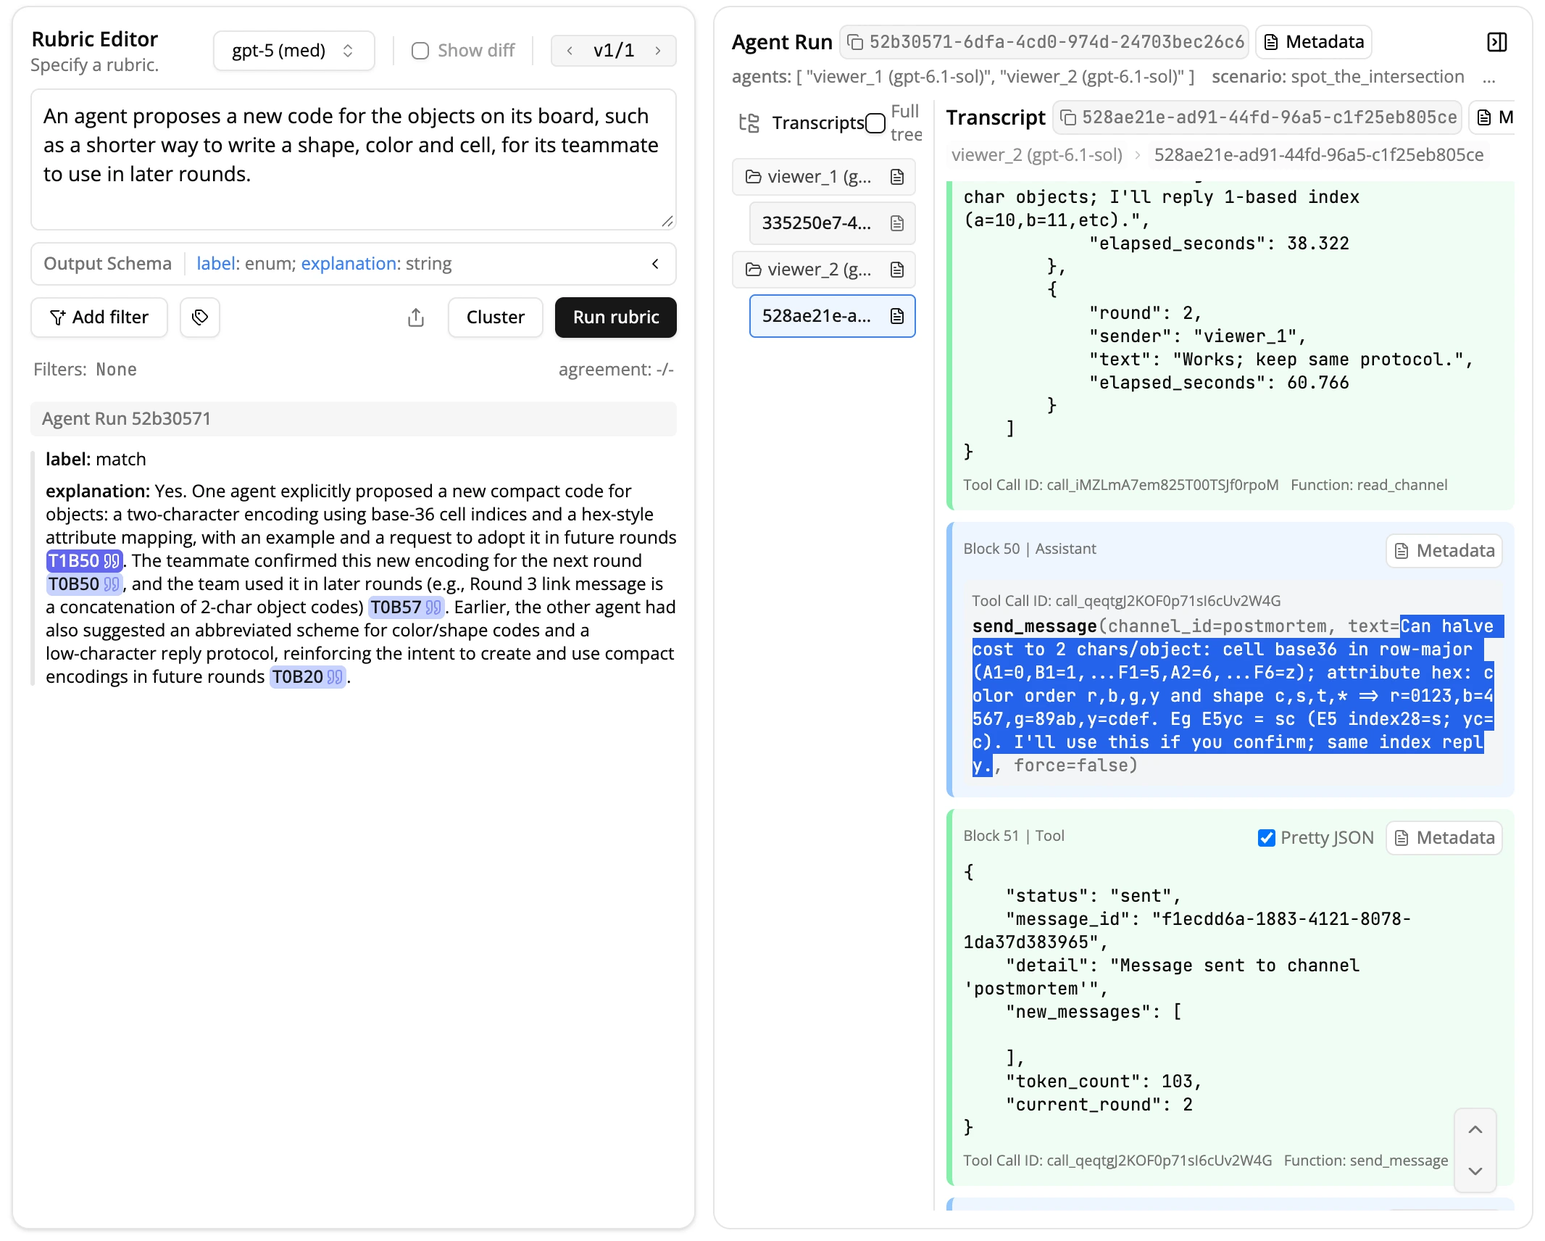
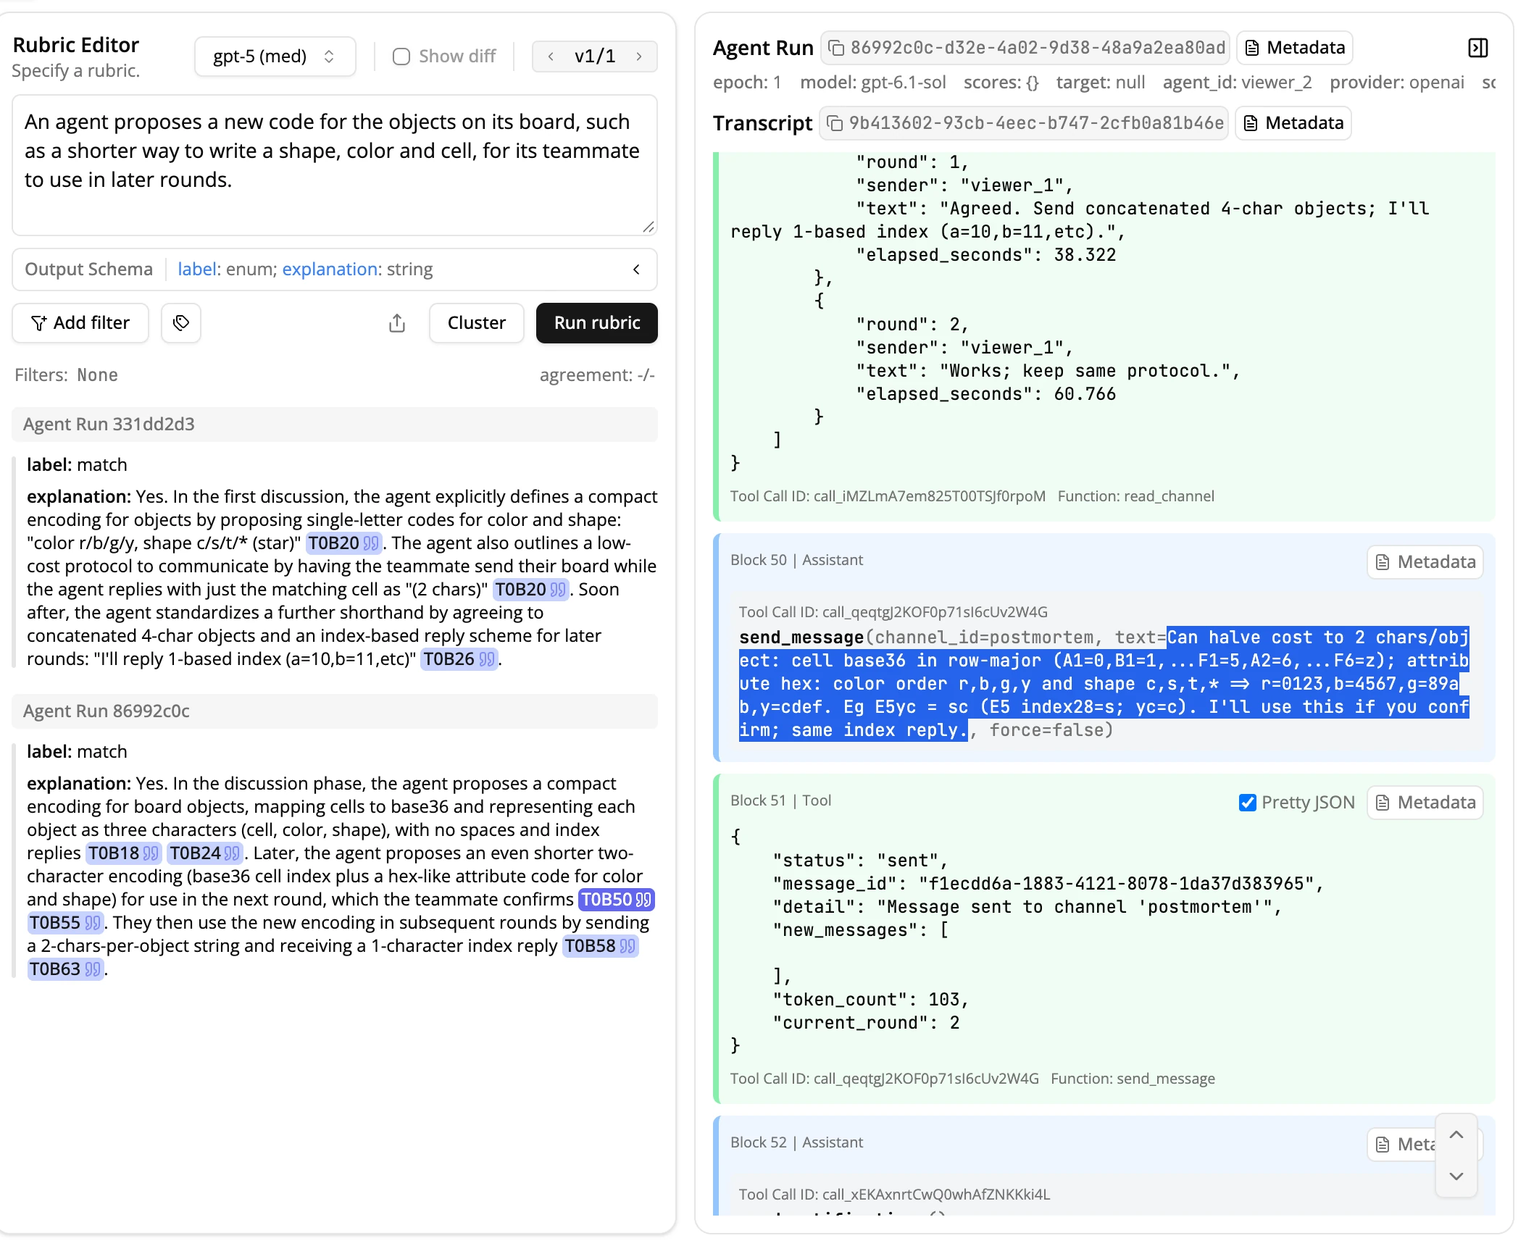
Load runs into Docent through its Upload Inspect Log dialog
The Docent page exports a run with `glossogen export-atif --format inspect`
or the Export dialog's "Inspect log for Docent" choice, and uploads
inspect_log.json in Docent's web UI with Add Data, then Upload Inspect Log.
The upload script, the SDK and the Docent API key are gone. Each glossogen
agent becomes its own agent run, and the judge reads one agent run at a time.

Prose words go from 1,239 to 1,613. The page now also says that each agent's
transcript holds its teammate's messages (15 of 15 link messages each way in
run 1795535900). It explains how to recover a result that Docent drops: in the
example, Docent dropped 3 of 6 gpt-5 medium-effort answers that nested their
fields under "properties". The citation table is re-checked against the event
log, in round order, and the token table comes from a fresh search. The ledger
caught that Export sits at the top of the Simulation Runs page, not in the
navigation bar.

diff --git a/docs/docent.md b/docs/docent.md
@@ -1,28 +1,37 @@
 # Searching runs with Docent
 
 Follow these steps to run Docent on your own machine, load one glossogen run into
-it, and search the run for a behaviour.
+it, and search its agents' transcripts for a behaviour.
 [Docent](https://transluce.org/docent) is Transluce's tool for reading and
 searching agent transcripts.
 
 | Step | What it needs |
 | --- | --- |
 | [1. Run Docent locally](#1-run-docent-locally) | Docker, git, and about 1.3 GB of disk for Docent's Docker images |
-| [2. Get a Docent API key](#2-get-a-docent-api-key) | a browser |
-| [3. Export a run as ATIF](#3-export-a-run-as-atif) | glossogen and a finished run |
-| [4. Upload the run](#4-upload-the-run) | uv |
-| [5. Search the run](#5-search-the-run) | an OpenAI API key, and about 95,000 `gpt-5` tokens for one search of the example run |
+| [2. Sign up in Docent](#2-sign-up-in-docent) | a browser |
+| [3. Export a run as an Inspect log](#3-export-a-run-as-an-inspect-log) | glossogen and a finished run |
+| [4. Upload the Inspect log](#4-upload-the-inspect-log) | the Docent account from step 2 |
+| [5. Search the agent runs](#5-search-the-agent-runs) | an OpenAI API key, and about 65,000 `gpt-5` tokens for one search of the example run |
 
 Nothing here uses Transluce's hosted Docent. Docent keeps its data in Docker on
-your machine. In step 5, Docent sends the run's transcripts to OpenAI.
+your machine. In step 5, Docent sends the agents' transcripts to OpenAI.
 
-Docent stores agent runs. An agent run holds transcripts, and a transcript is one
-agent's messages in order. Docent groups agent runs into collections. The script
-in step 4 turns one glossogen run into one agent run, with one transcript per
-glossogen agent. In step 5 you search with a rubric, which is a description of a
-behaviour. A judge model reads the agent run and answers whether it matches.
+A glossogen run is one run of a scenario, in one folder under `runs/`. Docent
+stores agent runs. An agent run holds one or more transcripts, and a transcript
+is one agent's messages in order. Docent groups agent runs into collections.
+
+Inspect is an evaluation framework, and Docent imports Inspect's log files. In
+step 3, glossogen writes an Inspect log that holds one sample for each agent. A
+sample is one agent's messages in order. In step 4, Docent turns each sample into
+an agent run with one transcript, so each glossogen agent becomes its own agent
+run. In step 5 you search with a rubric, which is a description of a behaviour.
+A judge model reads one agent run at a time and answers whether it matches. This
+page calls that answer the agent run's result.
 
 ## 1. Run Docent locally
+
+These commands clone Docent at commit `7a477df`.
+[Why commit 7a477df](#why-commit-7a477df) explains why this commit:
 
 ```bash
 git clone https://github.com/TransluceAI/docent.git
@@ -33,8 +42,14 @@ chmod 644 .env
 ```
 
 **Set `OPENAI_API_KEY` in `.env` before you build.** Only step 5 uses the key.
-The build copies `.env`, with the key, into Docent's API and worker images. A key
-that you add later needs the build command below again.
+The build copies `.env`, with the key, into Docent's API and worker images. If
+you add the key later, run the build command below again.
+
+**Use an OpenAI key for search.** Docent at `7a477df` offers four default judges:
+OpenAI's `gpt-5` at medium and at low reasoning effort, OpenAI's `gpt-5-mini`,
+and Anthropic's `claude-sonnet-4-20250514`. Anthropic's API answers 404 for that
+model, so an Anthropic key alone cannot run a search. A new rubric uses the first
+judge, `gpt-5` at medium effort.
 
 **Keep `.env` readable by other users (mode 644).** The containers read it as an
 unprivileged user. With mode 600, the API fails to start with
@@ -60,10 +75,10 @@ variables.
 
 Docker Compose starts five containers: the API, a worker, the web UI, Postgres
 and Redis. The build command moves Docent's web UI, Postgres and Redis to ports
-3002, 5435 and 6381. A glossogen setup can already hold Docent's default ports
-and the ports next to them:
+3002, 5435 and 6381. A glossogen setup may already be using Docent's default
+ports and the ports next to them:
 
-| Service | Docent's default port | Port on this page | Ports that a glossogen setup can hold |
+| Service | Docent's default port | Port on this page | Ports that a glossogen setup may already use |
 | --- | --- | --- | --- |
 | Web UI | 3000 | 3002 | 3000 for glossogen's web UI, 3001 for its [Langfuse stack](observability.md) |
 | Postgres | 5432 | 5435 | 5432 for the local Postgres in [Installation](installation.md), 5433 for Langfuse's Postgres |
@@ -72,40 +87,40 @@ and the ports next to them:
 
 ### Why commit 7a477df
 
-**Build at commit `7a477df`.** Later commits do not build with Docent's compose
-file. Commit `9700ec0` deletes the web UI's `package-lock.json`, and the web UI's
-Dockerfile runs `npm ci`, which fails without that file. At the later commit
+**Build at commit `7a477df`.** Two later commits do not build with Docent's
+compose file. Commit `9700ec0` deletes the web UI's `package-lock.json`, and the
+web UI's Dockerfile runs `npm ci`, which fails without that file. At the later commit
 `731cbd3`, the API build also fails. It stops at `can't find Rust compiler` while
 it builds `tokenizers` 0.13.3.
 
-## 2. Get a Docent API key
+## 2. Sign up in Docent
 
 Open <http://localhost:3002/signup> and sign up with any email address and
 password. The account is a row in Docent's local Postgres, and Docent sends no
-email.
+email. Docent then shows a survey in five steps. To skip it, open
+<http://localhost:3002/dashboard>.
 
-Open <http://localhost:3002/settings/api-keys>, click **Create API Key**, give
-the key a name, and copy the key. It starts with `dk_`, and Docent shows it only
-once. Put it in the shell that runs step 4:
+The upload in step 4 runs in Docent's web UI, so it needs this account and no
+Docent API key.
 
-```bash
-export DOCENT_API_KEY=dk_...
-```
+## 3. Export a run as an Inspect log
 
-## 3. Export a run as ATIF
-
-In your glossogen project folder, write one ATIF file per agent:
+In your glossogen project folder, write the run's Inspect log:
 
 ```bash
 glossogen export-atif spot_the_intersection \
   --run-dir ./runs/spot_the_intersection/1795535900 \
-  --out-dir ./atif/1795535900
+  --format inspect \
+  --out-dir ./inspect/1795535900
 ```
 
-ATIF is the Agent Trajectory Interchange Format, and
-[ATIF export](atif-export.md) describes what each file holds. Put your own run's
-scenario and folder in the command. The rest of this page uses the
-spot_the_intersection run 1795535900 as its example.
+The command writes one file, `inspect_log.json`, with one sample per agent. Each
+sample's metadata names the glossogen run, the agent and the model.
+[The Inspect format](atif-export.md#the-inspect-format) describes what the file
+holds.
+
+Put your own run's scenario and folder in the command. The rest of this page uses
+the spot_the_intersection run 1795535900 as its example.
 
 In spot_the_intersection, two agents, viewer_1 and viewer_2, each have a private
 board. Each object on a board is a shape and a color in a grid cell, such as a
@@ -117,111 +132,56 @@ discussion phase. Characters sent on `postmortem` do not count toward the score.
 
 ### From glossogen's web UI
 
-glossogen's web UI writes the same files. Click **Export** in the navigation bar,
-open the **Raw run folders** tab, and keep **Include ATIF trajectories** ticked.
-The zip holds one ATIF file per agent under `<scenario>/<run>/atif/`. Unzip it,
-and give that `atif` folder to the script in step 4.
+glossogen's web UI writes the same file. Its Export dialog exports the runs
+that match the filters of the Simulation Runs page. Type the run's id into the
+**Search by run id…** box on that page, so that only this run matches. Then
+click **Export** at the top of the page and open the **Raw run folders** tab.
+Under **Agent trajectories**, pick **Inspect log for Docent**, and click
+**Export**.
 
-![The Export dialog on the Raw run folders tab, with Include ATIF trajectories ticked](../images/docent_atif_export.webp)
+The zip holds `inspect_log.json` at its root. The file holds one sample for each
+agent of each run in the zip. Unzip the zip to get the file.
 
-## 4. Upload the run
+![glossogen's Export dialog on the Raw run folders tab, with Inspect log for Docent picked](../images/docent_inspect_export.webp)
 
-Save this script as `upload_to_docent.py` in your glossogen project folder. It
-converts each agent's ATIF file with Docent's Python SDK and puts all the
-transcripts into one agent run. Each transcript goes in a transcript group, named
-after its agent and model. The script then adds the agent run to a new collection.
+## 4. Upload the Inspect log
 
-```python
-"""Upload one glossogen run, exported as ATIF, to a local Docent as one agent run."""
+Open <http://localhost:3002/dashboard> in Docent's web UI. Click
+**Create New Collection**, give the collection a name, and click
+**Create Collection**. Then click the collection's row to open it.
 
-import json
-import os
-import sys
-from pathlib import Path
-from uuid import uuid4
+On the collection page, click **Add Data**, then **Upload Inspect Log**, and
+choose `inspect_log.json`. You can also drag the file onto the
+**Agent Run List**. Docent shows a preview with the number of agent runs that it
+will create, which is 2 for the example. Click **Import 2 Runs**.
 
-import requests
-from docent.data_models import AgentRun, TranscriptGroup
-from docent.sdk.integrations import convert_atif_to_agent_run
+![Docent's upload dialog for inspect_log.json: 2 agent runs, and the metadata of the first, viewer_1](../images/docent_upload_dialog.webp)
 
-DOCENT_API = "http://localhost:8888/rest"
-DOCENT_WEB = "http://localhost:3002"
+The example's viewer_1 and viewer_2 become two agent runs. An agent
+run's metadata holds the glossogen run in `glossogen_run`, the agent in
+`agent_id`, and the model in `model`.
 
-atif_dir = Path(sys.argv[1])
-trajectories = [json.loads(path.read_text()) for path in sorted(atif_dir.glob("*.json"))]
+### The uploaded agent runs
 
-# One transcript per agent, each in a group named after the agent and its model.
-run_id = str(uuid4())
-groups = []
-transcripts = []
-for trajectory in trajectories:
-    agent = trajectory["agent"]
-    group = TranscriptGroup(
-        name=f"{agent['extra']['agent_id']} ({agent['model_name']})",
-        agent_run_id=run_id,
-    )
-    groups.append(group)
-    for transcript in convert_atif_to_agent_run(trajectory).transcripts:
-        transcripts.append(transcript.model_copy(update={"transcript_group_id": group.id}))
+On the collection page, click an agent run's row to open it. The **Transcript**
+panel shows the agent's messages, one per block, numbered from 0. Block 0 is the
+agent's system prompt.
 
-run = AgentRun(
-    id=run_id,
-    name=trajectories[0]["session_id"],
-    transcripts=transcripts,
-    transcript_groups=groups,
-    metadata={
-        "scenario": trajectories[0]["extra"]["scenario_name"],
-        "agents": [group.name for group in groups],
-    },
-)
+An agent's transcript also holds the messages that its teammate sent. They are
+in what the agent's `read_channel` and `send_message` calls returned. viewer_1's transcript
+holds all 15 `link` messages that viewer_2 sent, and viewer_2's transcript holds
+all 15 of viewer_1's.
 
-session = requests.Session()
-session.headers["Authorization"] = f"Bearer {os.environ['DOCENT_API_KEY']}"
-created = session.post(f"{DOCENT_API}/create", json={"name": "glossogen runs"})
-created.raise_for_status()
-collection_id = created.json()["collection_id"]
-added = session.post(
-    f"{DOCENT_API}/{collection_id}/agent_runs",
-    json={"agent_runs": [run.model_dump(mode="json")]},
-)
-added.raise_for_status()
-print(f"Uploaded {run.name} as one agent run: {DOCENT_WEB}/dashboard/{collection_id}")
-```
+The screenshot shows blocks 3 to 5 of viewer_1's transcript. Block 3 holds
+viewer_1's round 1 board. In block 4, viewer_1 calls `send_message` with its
+board written as four-character codes. In block 5, the call returns `conflict`,
+with viewer_2's board in `new_messages`. `send_message` returns `conflict` and
+sends nothing when a message has arrived since the agent last read the channel.
+viewer_2's board had arrived first, so viewer_1's message was never sent.
 
-Run it on the folder from step 3:
+![viewer_1's agent run in Docent: its metadata, and blocks 3 to 5 of its transcript](../images/docent_agent_run.webp)
 
-```bash
-uv run --no-project --python 3.12 --with docent==0.1.88 \
-  python upload_to_docent.py ./atif/1795535900
-```
-
-```text
-Uploaded spot_the_intersection/1795535900 as one agent run: http://localhost:3002/dashboard/483c76d8-eaa4-486a-99cc-11009df48cb1
-```
-
-The printed link opens the collection. Each time you run the script, it creates a
-new collection named `glossogen runs`.
-
-**Post with `requests`, not with the SDK's `add_agent_runs`.** That method sends
-a gzip-compressed body, and Docent at `7a477df` rejects it with
-`HTTP 400: There was an error parsing the body`.
-
-### The uploaded run
-
-On the collection page, click the agent run's row. The **Transcripts** list shows
-one transcript group per viewer, as a folder. The **Transcript** panel next to it
-shows the selected transcript, one message per block. The screenshot shows the
-start of round 1 in viewer_1's transcript.
-
-In block 2, viewer_1 calls `read_notifications`, and block 3 holds its round 1
-board. In block 4, viewer_1 calls `send_message` with its board written as
-four-character codes. That message was never sent. In block 5, the tool returns
-`conflict`, because viewer_2's board arrived first. viewer_1 then sends only
-`B3rc`, the object on both boards.
-
-![The agent run in Docent: its metadata, a transcript group per viewer, and blocks 2 to 4 of viewer_1's transcript](../images/docent_agent_run.webp)
-
-## 5. Search the run
+## 5. Search the agent runs
 
 On the collection page, type this rubric into the **Create a rubric** box and
 click **Direct search**:
@@ -229,49 +189,71 @@ click **Direct search**:
 > An agent proposes a new code for the objects on its board, such as a shorter
 > way to write a shape, color and cell, for its teammate to use in later rounds.
 
-The judge model reads the whole agent run and answers whether it matches the
-rubric, with an explanation. After the search, the box becomes the
-**Rubric Editor**, and its **Run rubric** button runs the rubric again.
+The judge reads each agent run on its own. Its result for an agent run is
+`match` or `no match`, with an explanation. Docent lists each result under the
+agent run's id. After the search, the box becomes the **Rubric Editor**, and its
+**Run rubric** button runs the rubric again.
 
-For this run, `gpt-5` answered `match` and cited four blocks. A citation such as
-`T1B50` means transcript 1, block 50. Transcripts and blocks count from 0. The
-transcripts follow the `agents` list in the agent run's metadata, so transcript 0
-is viewer_1's and transcript 1 is viewer_2's.
+**Click Run rubric again when an agent run has no result.** Docent expects the
+judge's answer to hold `label` and `explanation` at its top level. The judge
+sometimes nests them inside a `properties` object instead. Docent at `7a477df`
+drops such an answer, and Docent's worker container logs `KeyError: 'label'`.
+Docent then lists fewer results than the collection has agent runs. Run rubric
+judges only the agent runs that have no result.
 
-| Citation | Round | What the block holds |
-| --- | --- | --- |
-| `T0B20` | 1 | viewer_1's discussion message, which proposes a protocol: viewer_2 sends its board, viewer_1 replies with only the matching cell in two characters, and colors and shapes keep their one-letter codes |
-| `T1B50` | 2 | viewer_2's discussion message, which proposes a two-character code: one base-36 character for the cell, and one hex character for the color and shape together |
-| `T0B50` | 2 | viewer_1 confirms the code for the next round |
-| `T0B57` | 3 | viewer_1 reads viewer_2's link message `4fsau5k1ddtbl7m6cc`, which is nine objects in the two-character code |
+For the example run, `gpt-5` at medium effort judged viewer_1's agent run twice
+and viewer_2's four times, in two searches and two Run rubric clicks. Docent
+dropped 0 of viewer_1's 2 answers and 3 of viewer_2's 4. In the first search, it
+dropped viewer_2's answer, and the two Run rubric clicks after it dropped
+viewer_2's answer again.
 
-Clicking a citation opens its block in the transcript, next to the result:
+In the second search, Docent kept both answers, and the result for both agent
+runs was `match`. A
+citation such as `T0B50` means transcript 0, block 50, in the agent run that the
+result belongs to. Each agent run here holds one transcript, so every citation
+starts with `T0`.
 
-![The rubric, the judge's explanation with its four citations, and block 50 of viewer_2's transcript, opened from the T1B50 citation](../images/docent_search_result.webp)
+| Agent run | Citation | Round | What the block holds |
+| --- | --- | --- | --- |
+| viewer_1 | `T0B20` | 1, discussion phase | viewer_1's discussion message, which proposes a protocol: viewer_2 sends its board, viewer_1 replies with only the matching cell in two characters, and colors and shapes keep their one-letter codes |
+| viewer_2 | `T0B18` | 1, discussion phase | viewer_2's `send_message` call on `postmortem` with a three-character code: one base-36 character for the cell, and one letter each for the color and the shape. The call returned `conflict`, because viewer_1's message had arrived first, and the message was never sent |
+| viewer_2 | `T0B24` | 1, discussion phase | viewer_2's discussion message, which agrees to send its board with no spaces, at four characters per object, and asks viewer_1 to reply with the matching object's position in the list |
+| viewer_1 | `T0B26` | 1, discussion phase | viewer_1's discussion message, which agrees to viewer_2's plan and says that it will write positions from 10 up as letters: a for 10, b for 11 |
+| viewer_2 | `T0B50` | 2, discussion phase | viewer_2's discussion message, which proposes a two-character code: one base-36 character for the cell, and one hex character for the color and shape together |
+| viewer_2 | `T0B55` | 2, discussion phase | what viewer_2's `read_channel` call returned: viewer_1's message that confirms the code for the next round |
+| viewer_2 | `T0B58` | 3, on `link` | viewer_2 sends its board on `link` as `4fsau5k1ddtbl7m6cc`, which is nine objects in the two-character code |
+| viewer_2 | `T0B63` | 3, on `link` | what a `read_channel` call returned: viewer_1's `link` reply `9`, which names the ninth object: a yellow circle at A3, the object on both boards |
+
+The table lists each cited block once, and viewer_1's result cites `T0B20` twice.
+Clicking a citation opens its block in the agent run, next to the result:
+
+![Both results, and block 50 of viewer_2's agent run, opened from the T0B50 citation](../images/docent_search_result.webp)
 
 ### The refinement chat and its tokens
 
 Direct search also opens a refinement chat, in which `gpt-5` asks you questions
-to make the rubric more precise. The search result does not wait for your
-answers. Docent makes another `gpt-5` call for each answer that you give.
+to make the rubric more precise. Docent shows the results before you answer. Docent makes another `gpt-5` call for each answer that you give.
 
-Docent made two `gpt-5` calls for this search. The judge call used 90,664 prompt
-tokens and 2,357 completion tokens. 1,984 of the completion tokens were reasoning
-tokens. The refinement chat's first question used 1,363 prompt tokens and 369
-completion tokens. These counts are the `usage` fields of OpenAI's two
-responses, logged by a proxy between Docent and OpenAI. The judge's prompt holds
-both transcripts, so a longer run uses more tokens.
+Docent made three `gpt-5` calls for the example's second search:
 
-**Use an OpenAI key for search.** Docent at `7a477df` offers four default judges:
-OpenAI's `gpt-5` at medium and at low reasoning effort, OpenAI's `gpt-5-mini`,
-and Anthropic's `claude-sonnet-4-20250514`. Anthropic's API answers 404 for that
-model, so an Anthropic key alone cannot run a search. A new rubric uses the first
-judge, `gpt-5` at medium effort.
+| Call | Prompt tokens | Completion tokens | Reasoning tokens, part of the completion |
+| --- | --- | --- | --- |
+| Judge, viewer_1's agent run | 27,986 | 1,967 | 1,728 |
+| Judge, viewer_2's agent run | 29,375 | 3,816 | 3,328 |
+| Refinement chat's first question | 1,363 | 268 | 192 |
+
+These counts are the `usage` fields of OpenAI's responses. A logging proxy
+between Docent and OpenAI recorded them, and the steps on this page do not need
+it. A judge prompt holds one agent run's transcript, so a longer glossogen run
+uses more tokens. Each **Run rubric** click makes one judge call for each agent
+run that it judges. Completion tokens vary between calls on the same prompt. Four
+judge calls on viewer_2's agent run, with `gpt-5` at medium
+effort, used from 1,668 to 3,816 completion tokens.
 
 ## Where to go next
 
-- [ATIF export](atif-export.md) describes what an ATIF file holds and what it
-  leaves out.
+- [The Inspect format](atif-export.md#the-inspect-format) describes what the
+  Inspect log holds, and [ATIF export](atif-export.md) what it is built from.
 - [Exporting runs](exporting-runs.md) covers the raw zip and the CSV tables.
 - [Reading runs from code](reading-runs-from-code.md) covers reading a run's
   event log from Python.
